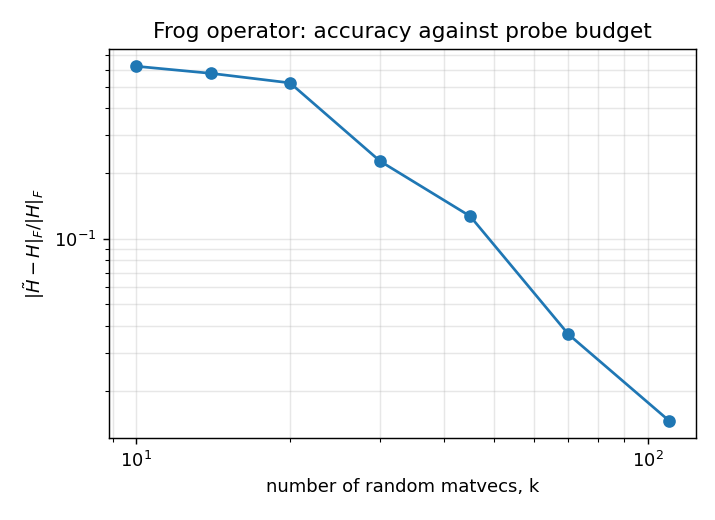
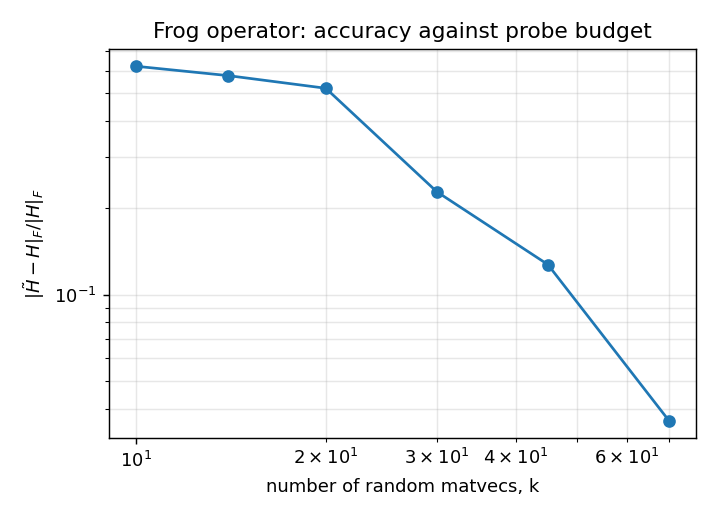
Lighten operator_fit_frog's default: 20 minutes to 72 seconds
Grid 24 rather than 40, and the sweep stops at k = 70 rather than 110. The
mesh-scalability study is what makes this safe rather than merely cheaper:
grid 24 is already in the resolved regime, with the error curve flat from
there to grid 48, so nothing about the method's behaviour changes. The story
is intact -- 0.62 to 0.037 across the range, a factor of 17.

This removes a small dishonesty rather than just saving time. The generated
page previously carried a note saying its numbers came from a smaller problem
than the command it documents, because the default was too slow to document at
all. Now the page shows exactly what running the example produces, and the
generator's ABBREVIATED table is empty -- if an example ever needs an entry
there again, that is a signal its default is wrong.

`--hero` keeps grid 40, since the README figure wants the finer pixels, and
`--grid 40` reproduces the old sweep.

Also: captured stdout had the generator's temporary directory in it, which is
a different path on every run, so every regeneration rewrote those pages for
no reason. Normalized to the default output directory.

diff --git a/examples/operator_fit_frog.py b/examples/operator_fit_frog.py
@@ -18,9 +18,10 @@ Run:
     python examples/operator_fit_frog.py --quick    # small, no figures
     python examples/operator_fit_frog.py --hero     # only the README figure
 
-The full run fits at seven probe budgets on a 40 x 40 grid and takes several
-minutes; `--quick` is the smoke test and `--hero` regenerates docs/hero.png
-from a single fit.
+The full run fits at six probe budgets on a 24 x 24 grid, which
+experiments/mesh-scalability.md shows is already in the mesh-resolved regime.
+Pass `--grid 40` for a finer version; `--quick` is the smoke test and `--hero`
+regenerates docs/hero.png.
 
 Needs the `lgpsf` bindings importable (build with `-DLGPSF_BUILD_PYTHON=ON`)
 and scipy for the sparse assembly. matplotlib is optional -- without it the
@@ -65,7 +66,10 @@ def relative_frobenius(approx, H):
 # `max_level = 8` above leaves 45 modes reachable, so at the top of this range
 # the ladder is not the binding constraint -- the probe budget is, which is what
 # the curve is meant to show.
-CONVERGENCE_K = [10, 14, 20, 30, 45, 70, 110]
+CONVERGENCE_K = [10, 14, 20, 30, 45, 70]
+DEFAULT_GRID = 24                # resolved regime already; see
+                                 # experiments/mesh-scalability.md
+HERO_GRID = 40                   # the README figure wants finer pixels
 IMPULSE_K = [10, 20, 45]
 HERO_K_LOW = 10                  # affords one mode, so the fit is a Gaussian
 HERO_K_HIGH = 45                 # affords enough modes to resolve the shape
@@ -178,15 +182,18 @@ def main():
                         help="small grid, two budgets, no figures")
     parser.add_argument("--hero", action="store_true",
                         help="only the README figure: one fit, one image")
-    parser.add_argument("--grid", type=int, default=40)
+    parser.add_argument("--grid", type=int, default=None)
     parser.add_argument("--outdir", default=None,
                         help="where to write figures; overrides the defaults "
                              "(examples/ for the sweep figures, docs/ for the "
                              "README hero)")
     args = parser.parse_args()
 
-    grid = 20 if args.quick else args.grid
-    budgets = [10, 45] if args.quick else CONVERGENCE_K
+    if args.quick:
+        grid, budgets = 20, [10, 45]
+    else:
+        grid = args.grid or (HERO_GRID if args.hero else DEFAULT_GRID)
+        budgets = CONVERGENCE_K
 
     if args.hero:
         # Regenerating the README image should not cost the whole sweep --

diff --git a/docs/generate_examples.py b/docs/generate_examples.py
@@ -42,9 +42,9 @@ IMG = REPO / "docs" / "img"
 # examples fit, and has no output of its own.
 SKIP = {"frog_kernel"}
 
-# Examples whose full run is long enough to be worth avoiding here. The value
-# is the argument list that produces a representative shorter run.
-ABBREVIATED = {"operator_fit_frog": ["--grid", "24"]}
+# Every example is documented at its own defaults. If one ever gets slow
+# enough to need abbreviating here, that is a signal its default is wrong.
+ABBREVIATED = {}
 
 
 def page_name(path):
@@ -115,7 +115,10 @@ def run(command, scratch, env=None):
         sys.exit(f"example failed: {' '.join(map(str, command))}\n"
                  f"{result.stdout}\n{result.stderr}")
     figures = sorted(p for p in Path(scratch).iterdir() if p.suffix == ".png")
-    return result.stdout, figures
+    # The scratch directory is a fresh temporary path on every run, so leaving
+    # it in the captured output would rewrite these pages each time they are
+    # regenerated, for no reason. Show where the example writes by default.
+    return result.stdout.replace(str(scratch), "examples"), figures
 
 
 def build_page(name, title, intro, program, language, stdout, figures, note):

diff --git a/docs/examples/operator_fit_frog.md b/docs/examples/operator_fit_frog.md
@@ -31,14 +31,11 @@ building the frog operator on a 24 x 24 grid (576 dofs) ...
    30           0.2277         9.6        573
    45           0.1271        14.9        573
    70           0.0365        27.2        575
-  110           0.0146        37.3        576
 
-wrote /tmp/claude-1000/tmpfrptb9ah/operator_fit_frog_convergence.png
-wrote /tmp/claude-1000/tmpfrptb9ah/operator_fit_frog_impulses.png
-wrote /tmp/claude-1000/tmpfrptb9ah/hero.png
+wrote examples/operator_fit_frog_convergence.png
+wrote examples/operator_fit_frog_impulses.png
+wrote examples/hero.png
 ```
-
-> Run here with `--grid 24` to keep documentation generation quick; the defaults in the program are larger.
 
 ## Program
 
@@ -82,7 +79,10 @@ def relative_frobenius(approx, H):
 # `max_level = 8` above leaves 45 modes reachable, so at the top of this range
 # the ladder is not the binding constraint -- the probe budget is, which is what
 # the curve is meant to show.
-CONVERGENCE_K = [10, 14, 20, 30, 45, 70, 110]
+CONVERGENCE_K = [10, 14, 20, 30, 45, 70]
+DEFAULT_GRID = 24                # resolved regime already; see
+                                 # experiments/mesh-scalability.md
+HERO_GRID = 40                   # the README figure wants finer pixels
 IMPULSE_K = [10, 20, 45]
 HERO_K_LOW = 10                  # affords one mode, so the fit is a Gaussian
 HERO_K_HIGH = 45                 # affords enough modes to resolve the shape
@@ -195,15 +195,18 @@ def main():
                         help="small grid, two budgets, no figures")
     parser.add_argument("--hero", action="store_true",
                         help="only the README figure: one fit, one image")
-    parser.add_argument("--grid", type=int, default=40)
+    parser.add_argument("--grid", type=int, default=None)
     parser.add_argument("--outdir", default=None,
                         help="where to write figures; overrides the defaults "
                              "(examples/ for the sweep figures, docs/ for the "
                              "README hero)")
     args = parser.parse_args()
 
-    grid = 20 if args.quick else args.grid
-    budgets = [10, 45] if args.quick else CONVERGENCE_K
+    if args.quick:
+        grid, budgets = 20, [10, 45]
+    else:
+        grid = args.grid or (HERO_GRID if args.hero else DEFAULT_GRID)
+        budgets = CONVERGENCE_K
 
     if args.hero:
         # Regenerating the README image should not cost the whole sweep --

diff --git a/docs/examples/operator_fit_frog-cpp.md b/docs/examples/operator_fit_frog-cpp.md
@@ -48,7 +48,7 @@ building the frog operator on a 24 x 24 grid (576 dofs) ...
    45           0.1320        14.8        572
   110           0.0297        27.8        576
 
-wrote /tmp/claude-1000/tmpgd3by2kl/operator_fit_frog_cxx_*.png
+wrote examples/operator_fit_frog_cxx_*.png
 ```
 
 ## Program

diff --git a/docs/examples/lg_expansion_convergence.md b/docs/examples/lg_expansion_convergence.md
@@ -69,7 +69,7 @@ N = 3   (grid 81^3)
 
 same ~1% accuracy costs 11 modes at N=1, 66 modes at N=2, 286 modes at N=3
 
-wrote /tmp/claude-1000/tmpxgtr2dzz/lg_expansion_convergence.png
+wrote examples/lg_expansion_convergence.png
 ```
 
 ## Program

diff --git a/docs/examples/lg_modes.md b/docs/examples/lg_modes.md
@@ -43,7 +43,7 @@ modes_up_to_level(2, 0) -> 1 modes
 modes_up_to_level(2, 1) -> 3 modes
 modes_up_to_level(2, 2) -> 6 modes
 
-wrote /tmp/claude-1000/tmpv76cy5ce/lg_modes.png
+wrote examples/lg_modes.png
 ```
 
 ## Program
